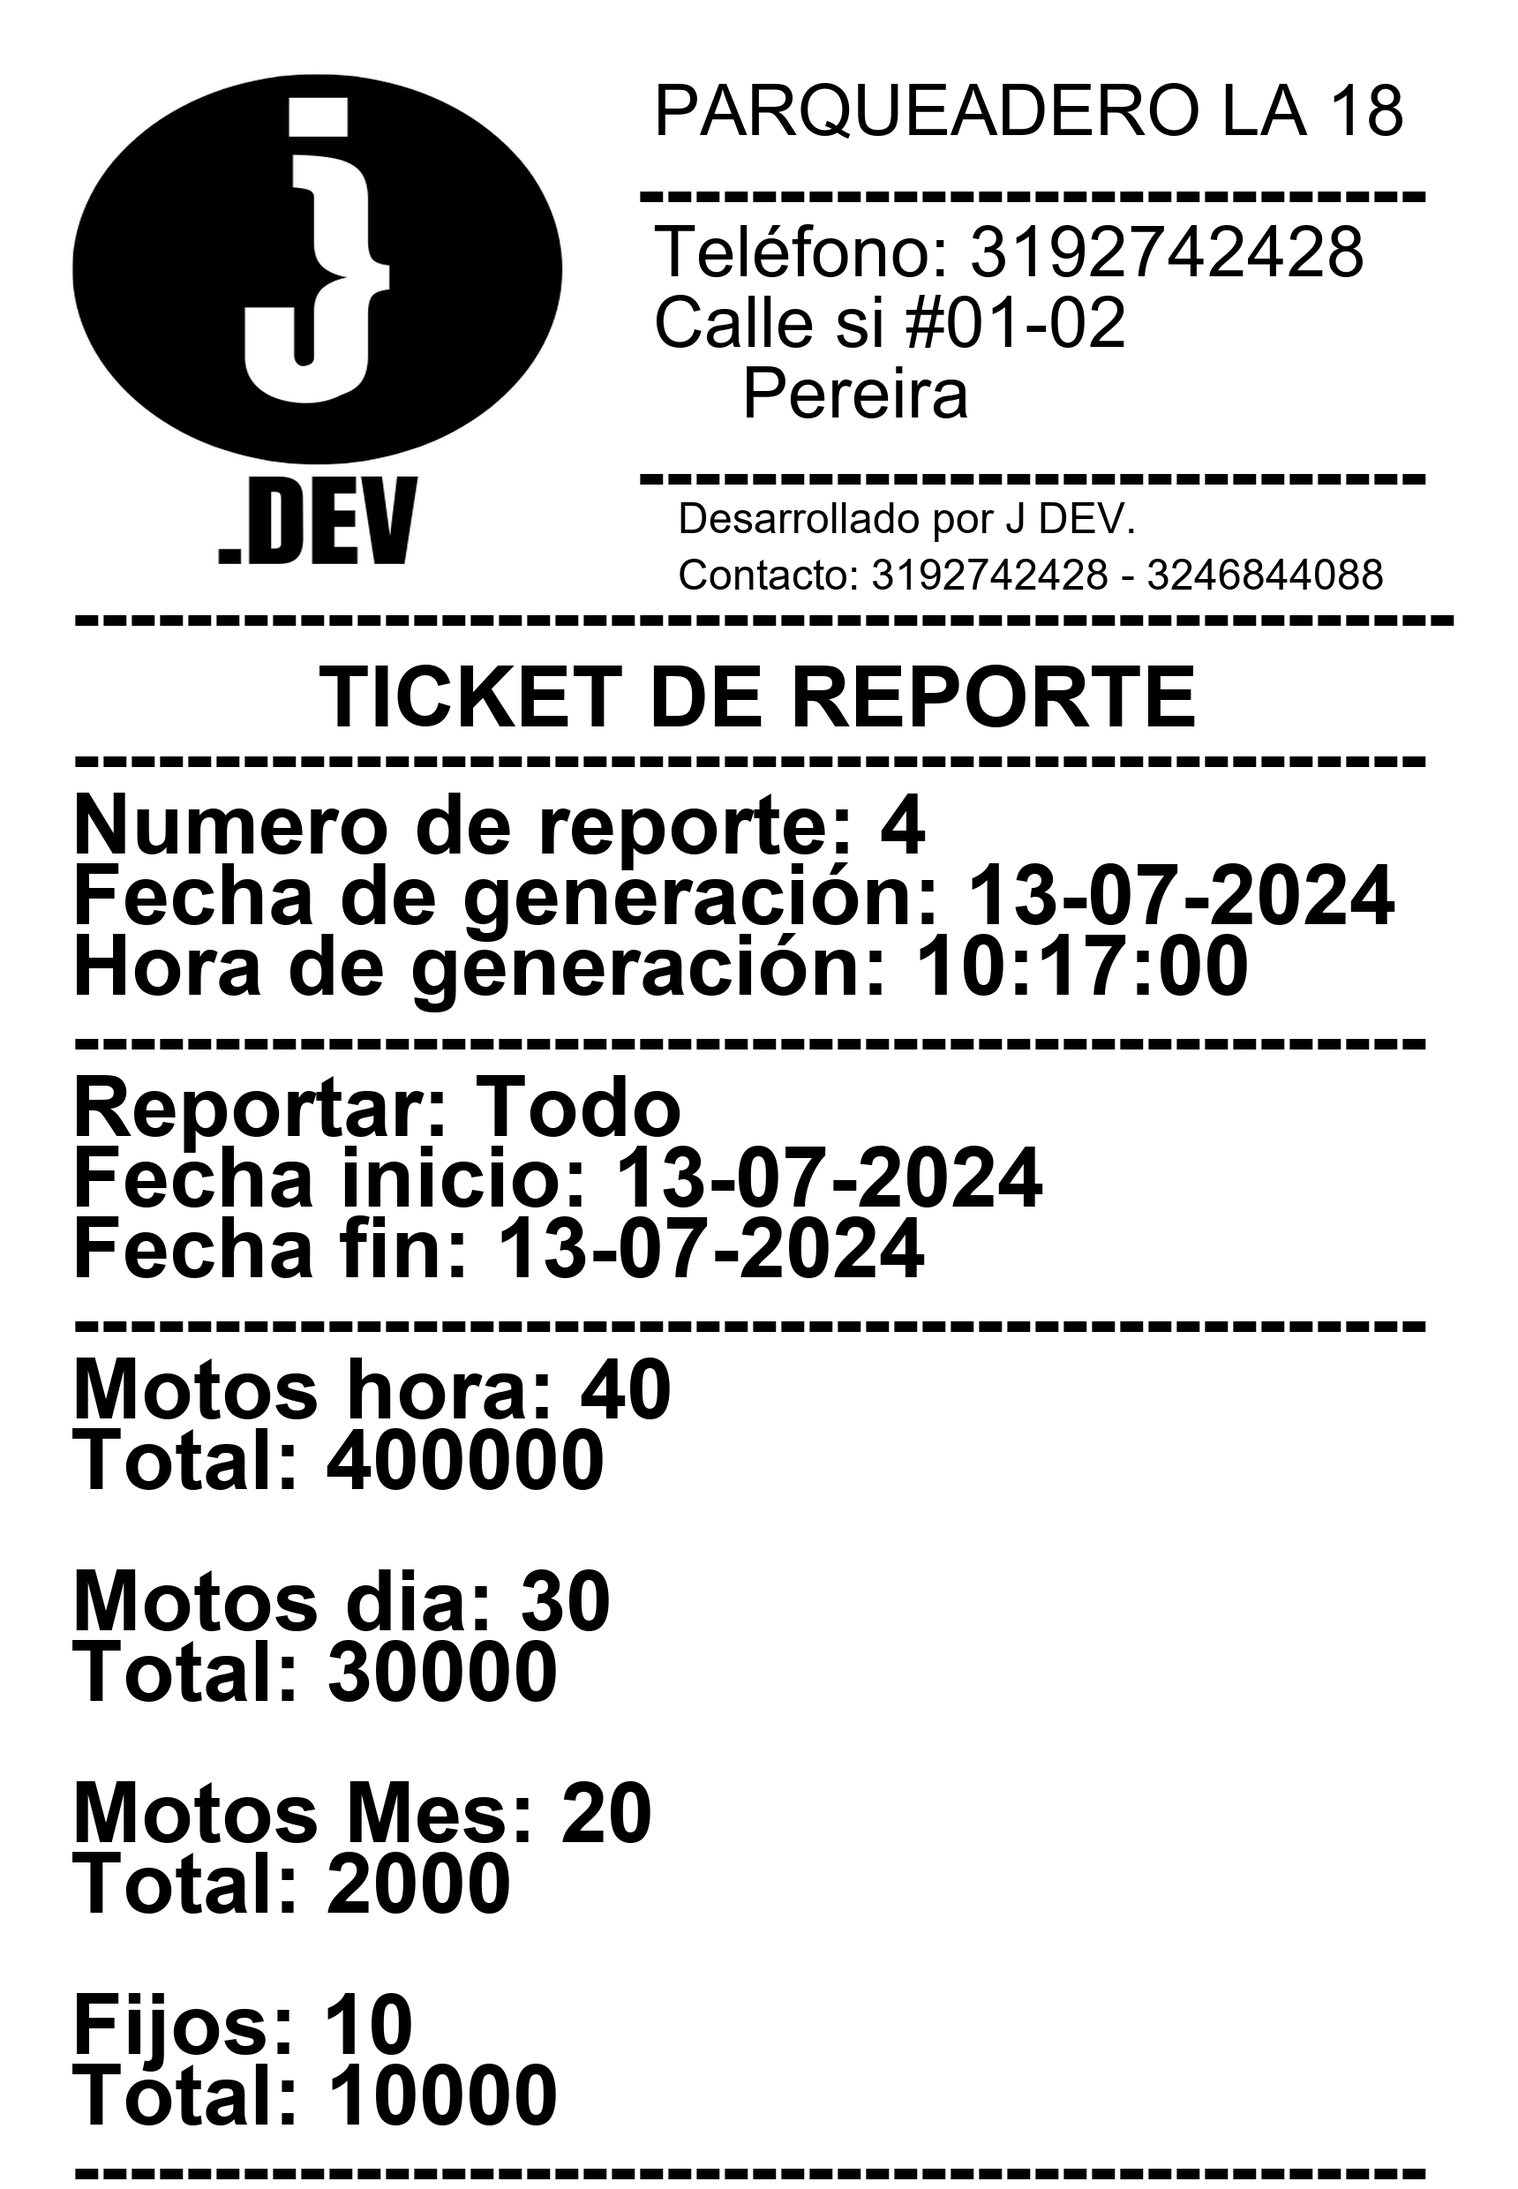
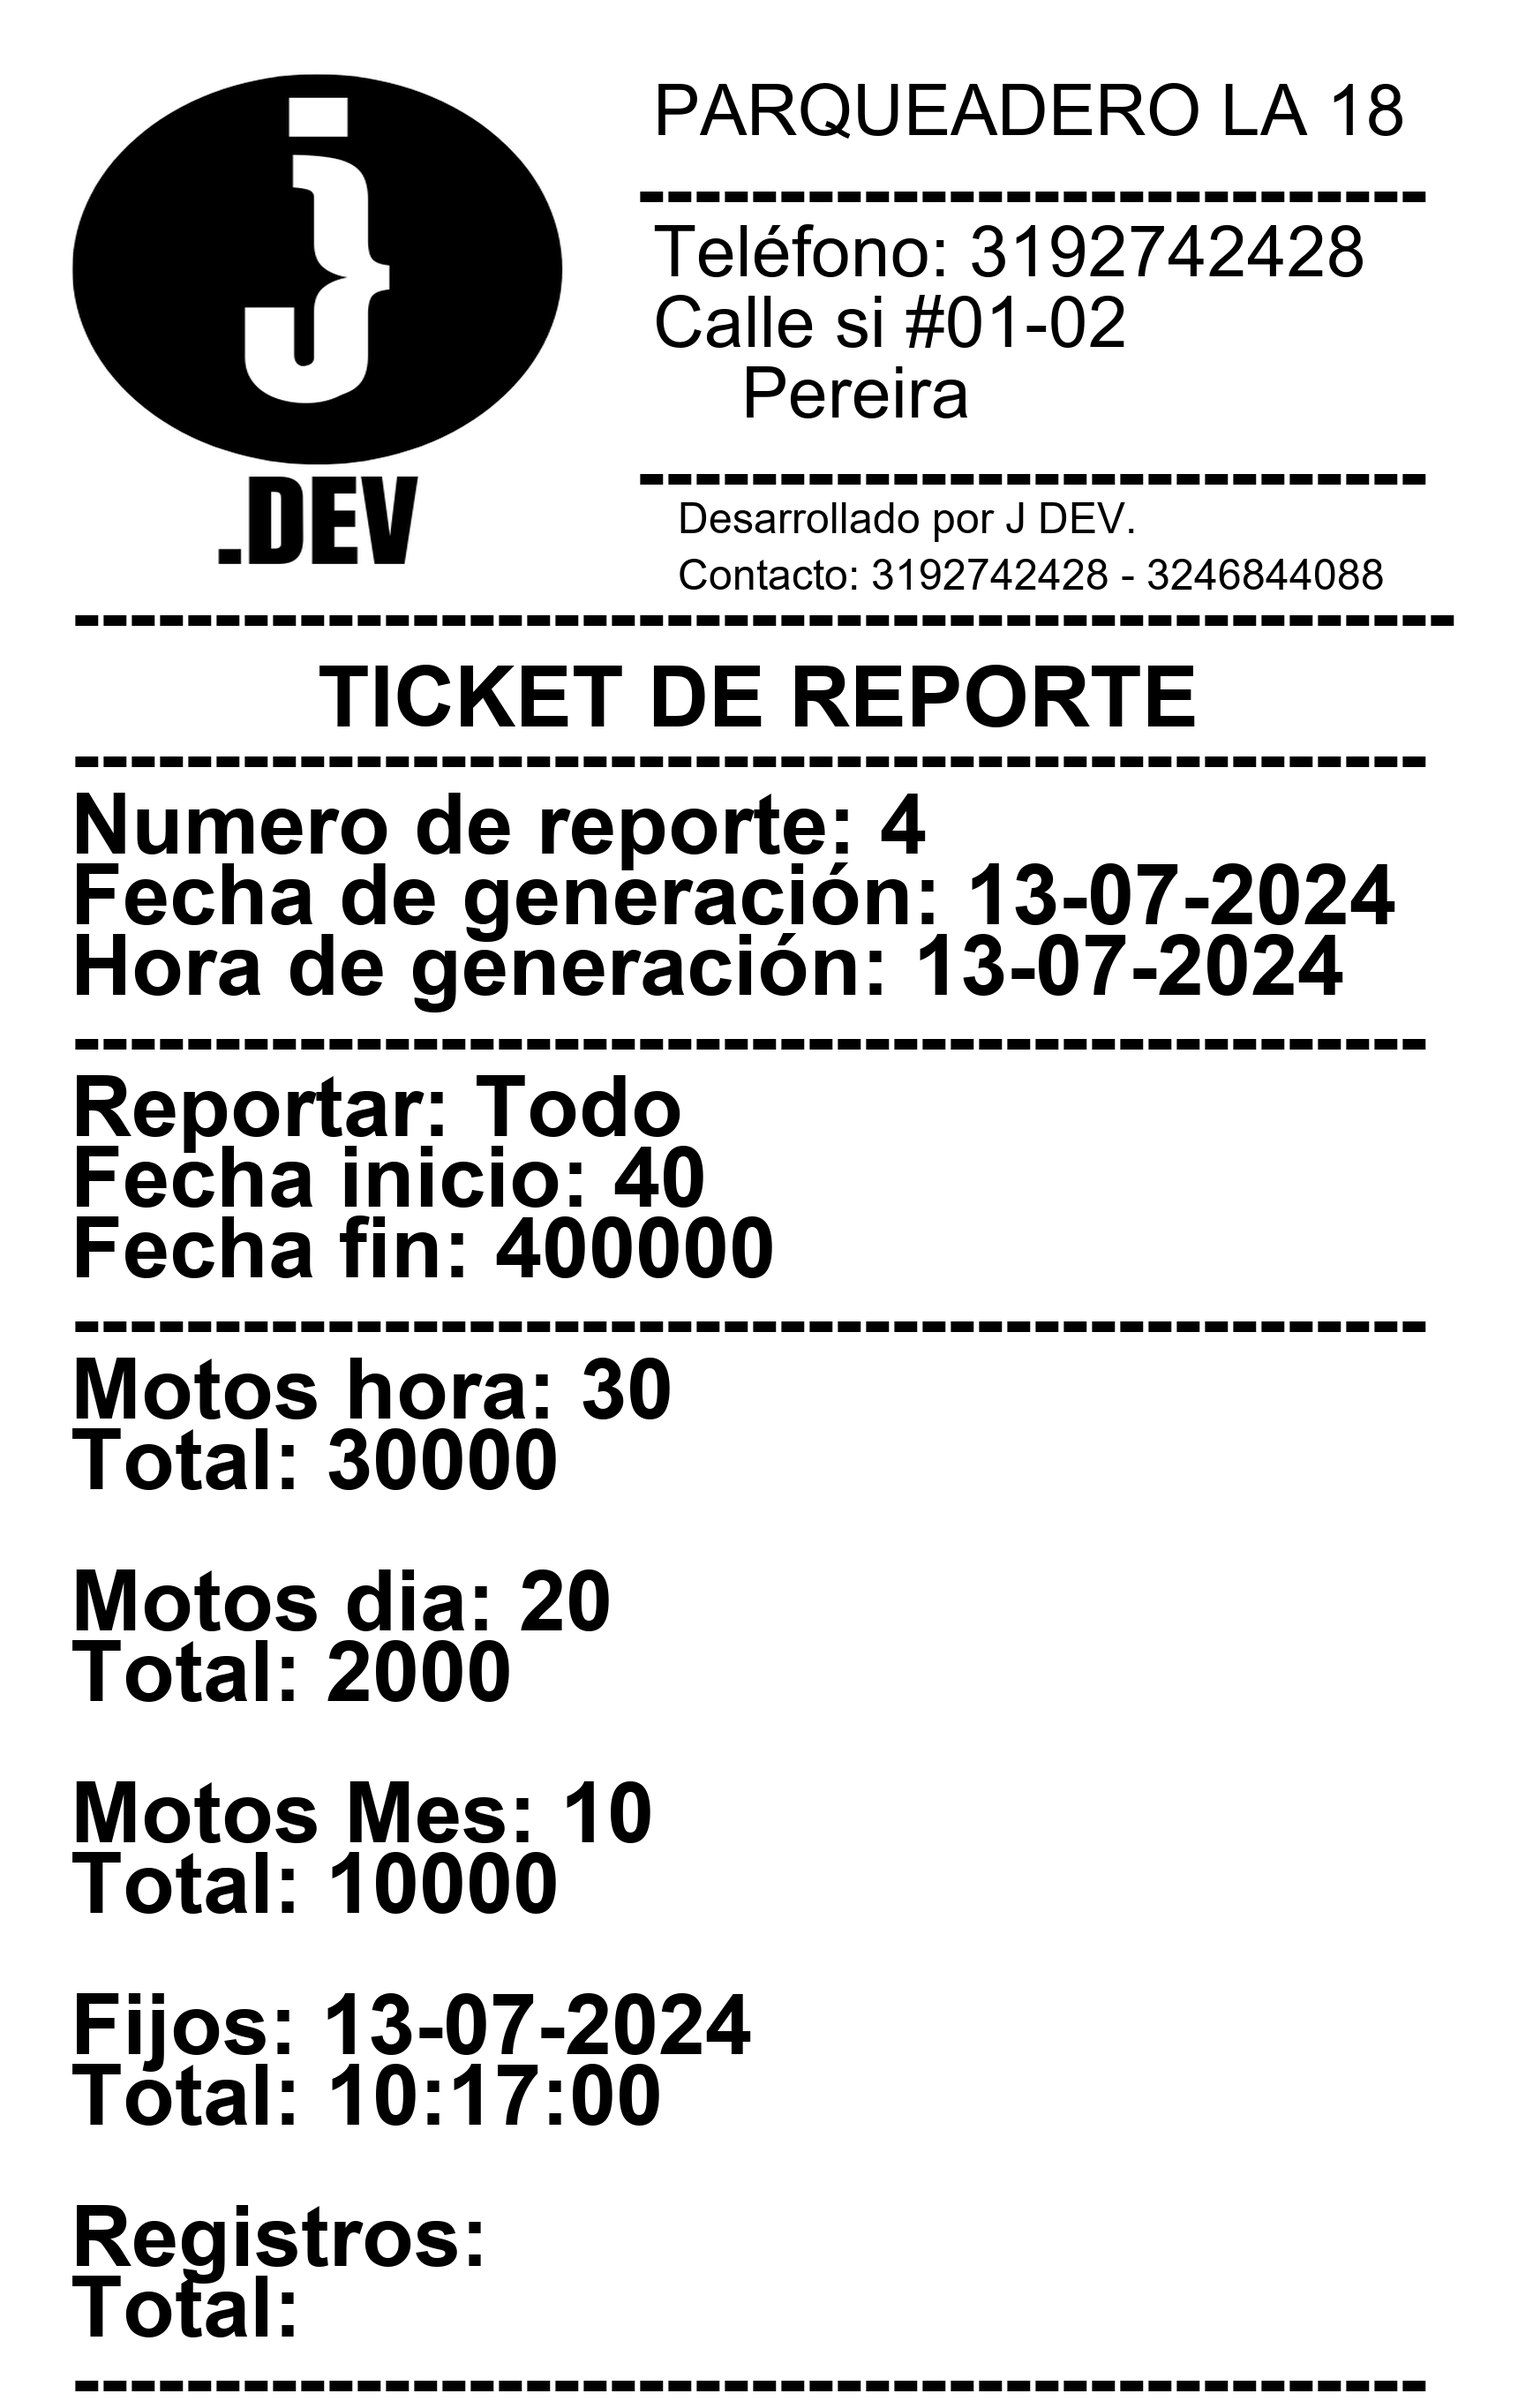
Se generó la consulta para el reporte

diff --git a/TicketReporte.py b/TicketReporte.py
@@ -1,7 +1,12 @@
 from PIL import Image, ImageDraw, ImageFont
 import os
+import win32print
+import win32ui
+from PIL import ImageWin
+def mm_to_pixels(mm, dpi):
+    return int((mm / 25.4) * dpi)
 # Función para generar y guardar el recibo como imagen con dimensiones de POS y logo
-def generarTicketReporteCompleto(codigo,Tipo, FechaInicio, FechaFin,registrosMotosHora,dineroTotalMotosHora,registrosMotosDia,dineroTotalMotosDia, registrosMotosMes,dineroTotalMotosMes,registrosFijos,dineroTotalFijos ,Fecha, Hora):
+def generarTicketReporteCompleto(codigo,Tipo,Fecha, Hora,FechaInicio, FechaFin,registrosMotosHora,dineroTotalMotosHora,registrosMotosDia,dineroTotalMotosDia, registrosMotosMes,dineroTotalMotosMes,registrosFijos,dineroTotalFijos):
     
     # Obtener la ruta del directorio actual
     directorio_actual = os.path.dirname(os.path.abspath(__file__))
@@ -9,7 +14,7 @@ def generarTicketReporteCompleto(codigo,Tipo, FechaInicio, FechaFin,registrosMot
     ruta_logo = os.path.join(directorio_actual, "Logo.png")
     ruta_guardado = os.path.join(directorio_actual, "TicketReporteCompleto.png")
     # Dimensiones típicas de un recibo POS, cuadruplicadas para mejorar calidad
-    width, height = 1720, 2480 # Cuadruplicar el tamaño original para mejorar la calidad de impresión
+    width, height = 1720, 2720 # Cuadruplicar el tamaño original para mejorar la calidad de impresión
     img = Image.new('RGB', (width, height), color='white')
     d = ImageDraw.Draw(img)
 
@@ -63,11 +68,61 @@ def generarTicketReporteCompleto(codigo,Tipo, FechaInicio, FechaFin,registrosMot
     d.text((80, 2240), f"Fijos: {registrosFijos}", font=font_bold, fill='black')
     d.text((80, 2320), f"Total: {dineroTotalFijos}", font=font_bold, fill='black')
 
-    d.text((80, 2400), f"------------------------------------------------", font=font_bold, fill='black')
+    d.text((80, 2480), f"Registros: ", font=font_bold, fill='black')
+    d.text((80, 2560), f"Total: ", font=font_bold, fill='black')
+
+    d.text((80, 2640), f"------------------------------------------------", font=font_bold, fill='black')
     # Guardar la imagen en la ruta especificada
     img.save(ruta_guardado)
+    imprimirTicket(ruta_guardado)
     print(f"Ticket Reporte Completo generado")
 
+
+
+# Función para imprimir el recibo
+def imprimirTicket(ruta_archivo):
+    try:
+        # Obtener el nombre de la impresora predeterminada
+        impresora_predeterminada = win32print.GetDefaultPrinter()
+        print(f"Impresora predeterminada: {impresora_predeterminada}")
+
+        # Supongamos una resolución de impresora de 203 DPI
+        dpi = 203
+        paper_width_mm = 70  # Ajustar a 70mm para hacer la imagen más pequeña
+        paper_width_px = mm_to_pixels(paper_width_mm, dpi)
+
+        # Abrir la impresora
+        hPrinter = win32print.OpenPrinter(impresora_predeterminada)
+        try:
+            # Crear un trabajo de impresión
+            hJob = win32print.StartDocPrinter(hPrinter, 1, ("TicketReporteCompleto", None, "RAW"))
+            try:
+                win32print.StartPagePrinter(hPrinter)
+                
+                # Cargar la imagen
+                bmp = Image.open(ruta_archivo)
+                bmp = bmp.resize((paper_width_px, int(bmp.height * (paper_width_px / bmp.width))), Image.LANCZOS)
+                dib = ImageWin.Dib(bmp)
+                
+                # Obtener el contexto de dispositivo
+                hDC = win32ui.CreateDC()
+                hDC.CreatePrinterDC(impresora_predeterminada)
+                
+                # Ajustar el tamaño de la imagen al tamaño del papel
+                hDC.StartDoc("TicketReporteCompleto")
+                hDC.StartPage()
+                dib.draw(hDC.GetHandleOutput(), (0, 0, bmp.size[0], bmp.size[1]))
+                hDC.EndPage()
+                hDC.EndDoc()
+                
+                win32print.EndPagePrinter(hPrinter)
+            finally:
+                win32print.EndDocPrinter(hPrinter)
+        finally:
+            win32print.ClosePrinter(hPrinter)
+        print("Impresión enviada correctamente.")
+    except Exception as e:
+        print(f"Error al intentar imprimir: {e}")
 # Ejemplo de uso
 Tipo = "Todo"
 FechaInicio="13-07-2024"
@@ -85,4 +140,4 @@ Hora = "10:17:00"
 codigo = "4"
 
 
-generarTicketReporteCompleto(codigo,Tipo, FechaInicio, FechaFin,registrosMotosHora,dineroTotalMotosHora,registrosMotosDia,dineroTotalMotosDia, registrosMotosMes,dineroTotalMotosMes,registrosFijos,dineroTotalFijos ,Fecha, Hora)
+#generarTicketReporteCompleto(codigo,Tipo, FechaInicio, FechaFin,registrosMotosHora,dineroTotalMotosHora,registrosMotosDia,dineroTotalMotosDia, registrosMotosMes,dineroTotalMotosMes,registrosFijos,dineroTotalFijos ,Fecha, Hora)

diff --git a/DatabaseConnection.py b/DatabaseConnection.py
@@ -5,6 +5,7 @@ from TicketIngresoMoto import generarTicketIngresoMoto
 from TicketIngresoFijo import generarTicketIngresoFijo
 from TicketIngresoMensualidad import generarTicketIngresoMensualidad
 from TicketRenovarMensualidad import generarTicketRenovarMensualidad
+from TicketReporte import generarTicketReporteCompleto
 from config import DB_CONFIG
 class DatabaseConnection:
     _instance = None
@@ -322,8 +323,80 @@ class DatabaseConnection:
         params = (str(posicionCasillero),)
         self.execute_query(query, params)
         query = "UPDATE Casillero SET Posicion = %s WHERE Posicion = %s"
-        params = (str (posicionCasillero), str(posicionCasillero + 1))
+        
         self.execute_query(query, params)
         query = "UPDATE Casillero SET Posicion = %s WHERE Posicion = 0"
         params = (str(posicionCasillero+1),)
         self.execute_query(query, params)
+
+    def consultarReporte (self, fechaInicio,fechaFin):
+        #--------- Definir fechas de busqueda ------------
+        params = (str (fechaInicio), str(fechaFin))
+        #------------ Consulta dia ---------------
+        query= """
+        SELECT COUNT(*) AS registrosDia, SUM(Total) AS totalDia
+        FROM registrosMoto
+        WHERE Tipo = 'Dia'AND fechaSalida BETWEEN %s AND %s;
+        """
+        resultsDia = self.executeQueryReturnAll(query,params)
+        if resultsDia:
+            registrosDia = resultsDia[0][0]  # El primer campo de la primera fila
+            totalDia = resultsDia[0][1]       # El segundo campo de la primera fila
+        #------------ Consulta hora ---------------
+        query = """
+        SELECT COUNT(*) AS registrosHora, SUM(Total) AS totalHora
+        FROM registrosMoto
+        WHERE Tipo = 'Hora' AND fechaSalida BETWEEN %s AND %s;
+        """
+        resultsHora = self.executeQueryReturnAll(query,params)
+        if resultsHora:
+            registrosHora = resultsHora[0][0]  # El primer campo de la primera fila
+            totalHora = resultsHora[0][1]       # El segundo campo de la primera fila
+        #------------ Consulta Mensualidades ---------------
+        query = """
+        SELECT COUNT(*) AS registrosMes
+        FROM Mensualidades
+        WHERE fechaUltimoPago BETWEEN %s AND %s;
+        """
+        resultsMes = self.executeQueryReturnAll(query,params)
+        if resultsMes:
+            registrosMes = resultsMes[0][0]  # El primer campo de la primera fila
+            if registrosMes is not None:
+                totalMes =   registrosMes*45000 # El segundo campo de la primera fila
+        #------------ Consulta Fijos -----------------------
+        query = """
+        SELECT COUNT(*) AS registrosFijos, SUM(Valor) AS totalFijos
+        FROM Fijos
+        WHERE fechaSalida BETWEEN %s AND %s;
+        """
+        resultsFijos = self.executeQueryReturnAll(query,params)
+        if resultsFijos:
+            registrosFijos = resultsFijos[0][0]  # El primer campo de la primera fila
+            totalFijos = resultsFijos[0][1]       # El segundo campo de la primera fila
+        # Cambiar none por 0 en caso de que no hayan registros
+
+        if registrosDia == None :
+            registrosDia = 0
+            totalDia = 0
+        if registrosHora == None :
+            registrosHora = 0
+            totalHora = 0
+        if registrosMes == None:
+            registrosMes= 0
+            totalMes = 0
+        if registrosFijos ==  None:
+            registrosFijos = 0
+            totalFijos = 0
+        #--------- Generar registro del reporte --------
+        fechaAcual = datetime.now().strftime('%Y-%m-%d')
+        horaActual= datetime.now().strftime('%H:%M:%S')
+        query = """
+        INSERT INTO Reporte (Fecha, Hora, Tipo, fechaInicio, fechaFin, registrosMotosHora, totalMotosHora, registrosMotosDia, totalMotosDia,registrosMotosMes,totalMotosMes,registrosFijos,totalFijos)
+        VALUES (%s, %s, %s, %s, %s,%s, %s, %s, %s, %s,%s, %s, %s,)
+        """
+        params = (fechaAcual,horaActual,"Completo",fechaInicio,fechaFin,registrosHora,totalHora,registrosDia,totalDia,registrosMes,totalMes,registrosFijos,totalFijos)
+        self.execute_query(query, params)
+        nuevo_id = self.obtenerUltimoRegistro()
+        generarTicketReporteCompleto(nuevo_id,"Completo",fechaAcual,horaActual,fechaInicio,fechaFin,registrosHora,totalHora,registrosDia,totalDia,registrosMes,totalMes,registrosFijos,totalFijos)
+            
+        

diff --git a/pagina_Reportes.py b/pagina_Reportes.py
@@ -45,11 +45,11 @@ class PaginaReportes(QWidget):
             item_FechaFin.setTextAlignment(Qt.AlignCenter)
             tabla_registros.setItem(row_idx, 5, item_FechaFin)
 
-            item_Registros = QTableWidgetItem(str(registro['Registros']))
+            item_Registros = QTableWidgetItem(str(registro['registrosMotosHora']))
             item_Registros.setTextAlignment(Qt.AlignCenter)
             tabla_registros.setItem(row_idx, 6, item_Registros)
 
-            item_DineroTotal = QTableWidgetItem(str(registro['dineroTotal']))
+            item_DineroTotal = QTableWidgetItem(str(registro['totalMotosHora']))
             item_DineroTotal.setTextAlignment(Qt.AlignCenter)
             tabla_registros.setItem(row_idx, 7, item_DineroTotal)
 
@@ -126,6 +126,8 @@ class PaginaReportes(QWidget):
             "color: White; background-color: #222125; font-size: 30px; border-radius: 15px; padding: 15px 30px;")
         layout_reportes.addWidget(boton_reimprimir, 10, 4, 1, 1,
                                 alignment=Qt.AlignTop| Qt.AlignRight)
+        
+        
         #Formulario
         # Crear el label "ID" y la textbox
         label_id = QLabel('ID')
